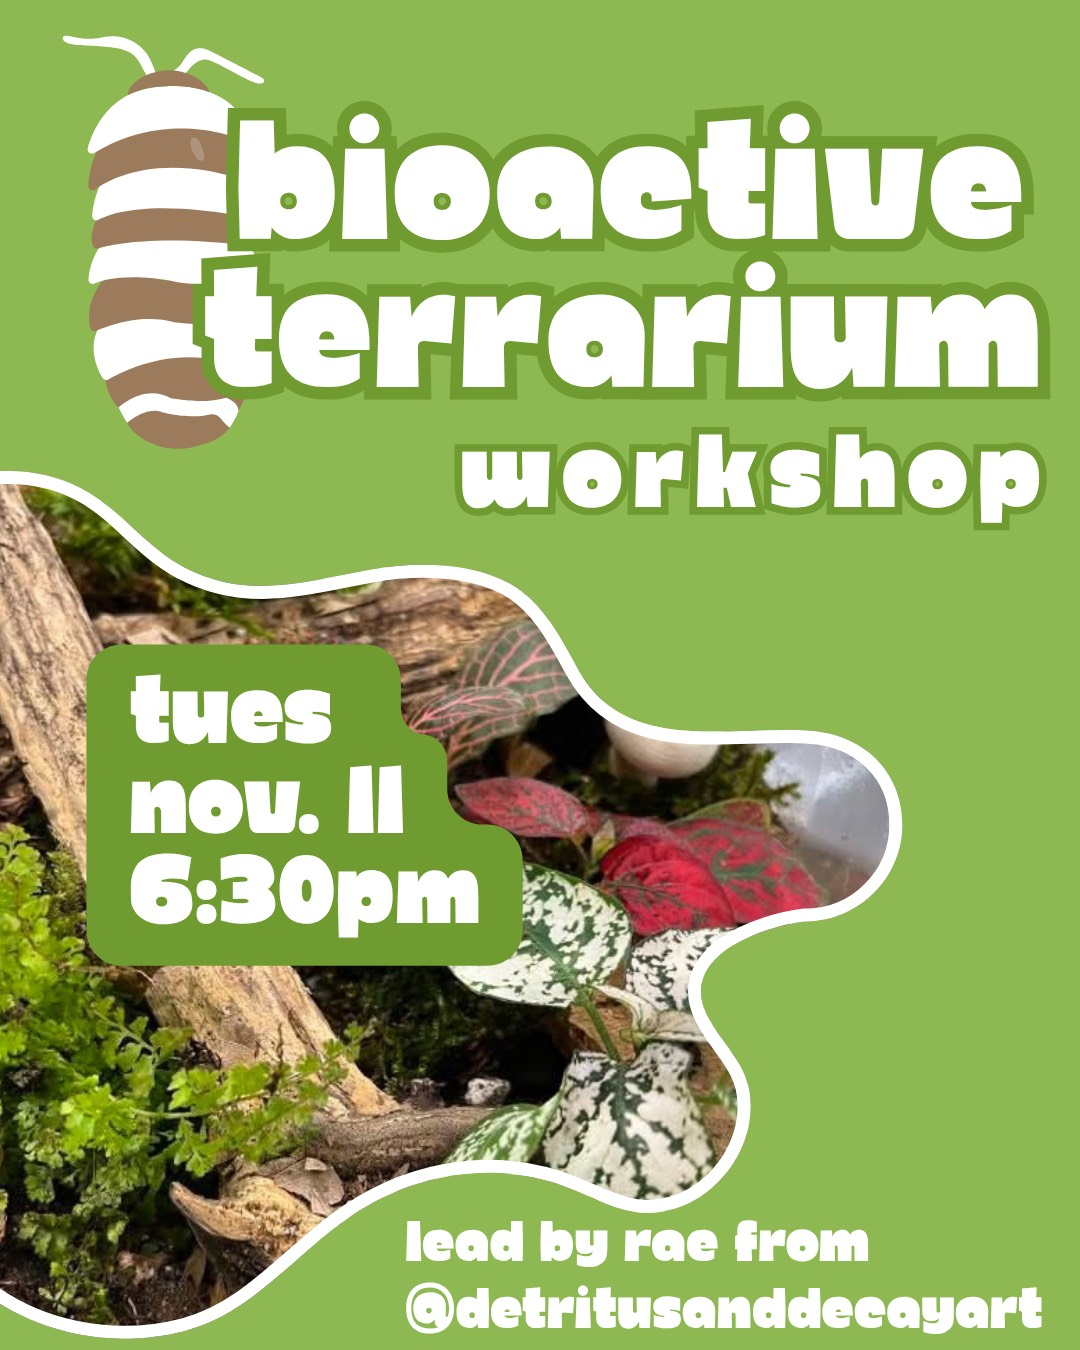
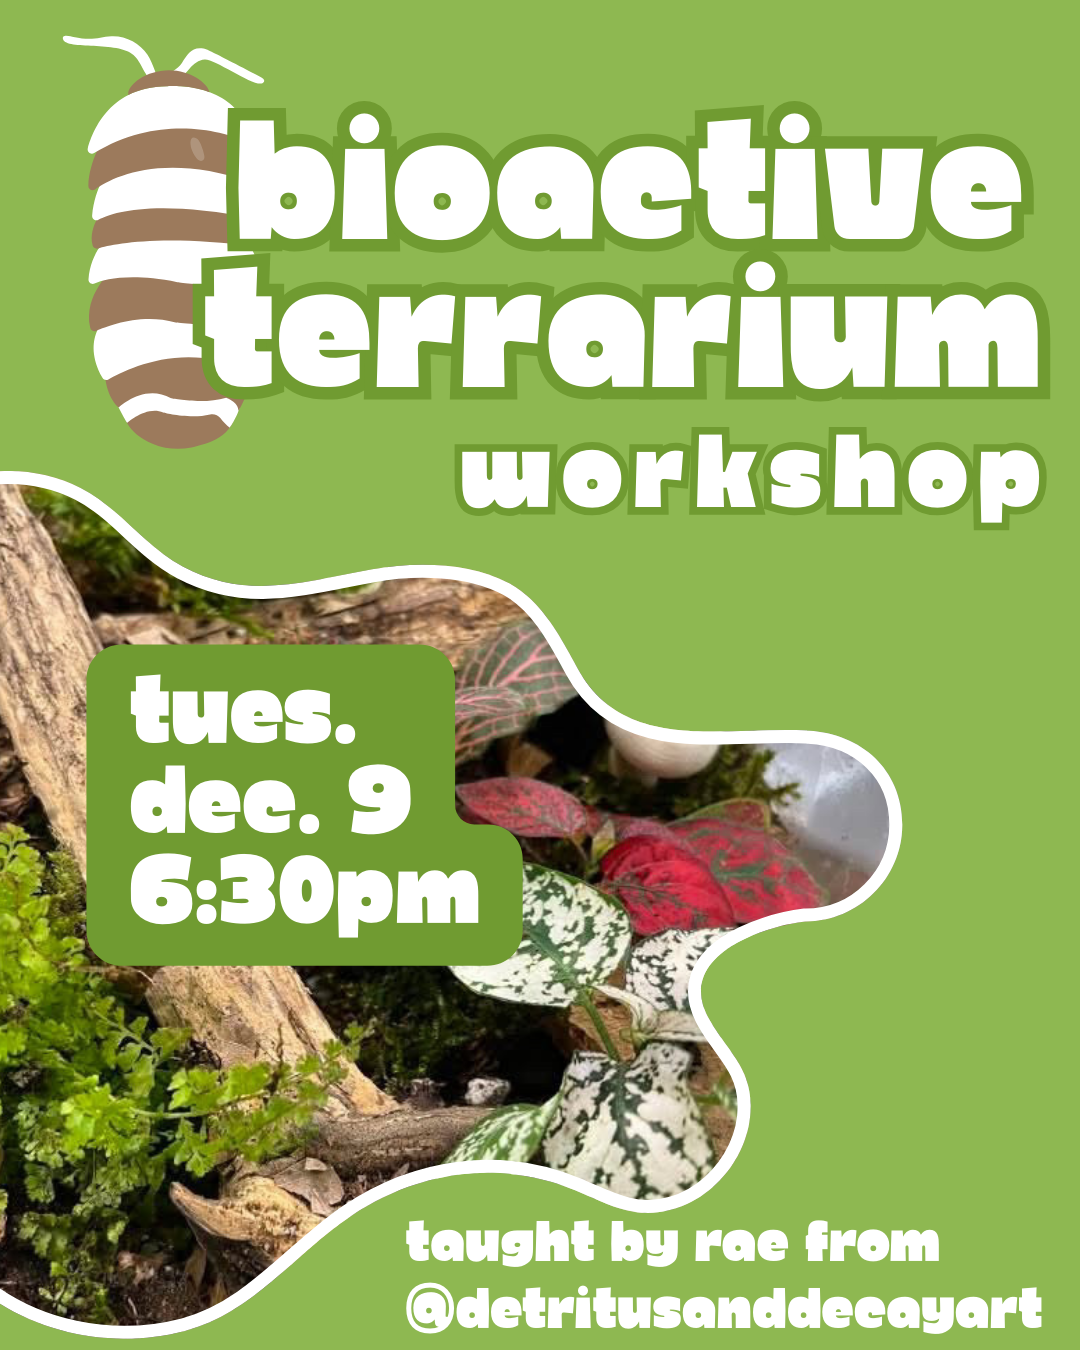
updates with new candle workshop and additional bioactive date

diff --git a/index.html b/index.html
@@ -110,6 +110,56 @@
             </div>
           </div> -->
 
+          <!-- second --> 
+          
+           <div class="event">
+            <div class="eventHeader">
+              <img src="./img/candle.png" alt="Event flyer" class="eventFlyer">
+                <div class="eventTitle">
+                 Make-Your-Own Candles
+                  <div class="eventDate">
+                    <span>
+                        Saturday 12/6 7:30PM
+                    </span>                    
+                  </div>      
+                  </div>
+                </div>
+              
+            <div class="eventDescription">
+              <p class="eventDescriptionText">
+                <strong>
+                  Amanda Garcia of ‘Girl Meets Wick’ will guide you through mixing your own fragrances! You will leave with three candles to take home!
+              </p>
+              <p class="eventDescriptionText">
+                What to expect:
+                <ul>
+                  <li>Learn about fragrance mixing</li>
+                  <li>Choose your jars & mix up your favorite fragrance concoctions</li>
+                  <li>Your candles will then be poured for you and will require 1 hour to cool before taking them home. (you can return that night after ~hour or pick up another day)</li>
+                </ul>
+              </p>
+              <br>
+
+              <p class="eventDescriptionText">
+                100% Essential Oils, 100% Soy Wax, 100% Cotton Wicks!
+              </p>
+
+              <p class="eventDescriptionText">
+              Sip on cocktails & mocktails and have a snack while you create!<br> enjoy 20% off of all Perch goods on the night of the workshop!
+              </p>
+
+              <p class="eventDescriptionText">
+                $50 all materials included. Must be 21+ to attend.
+              </p>
+
+              <a href="https://buy.stripe.com/5kQ5kCcfV5fNcqM1Ir9IQ0p">
+                <button class="signUpBtn">Sign up!</button>
+            </a>
+            
+              
+            </div>
+          </div>
+
           
 
           <div class="event">
@@ -120,7 +170,7 @@
                   <div class="eventDate">
                     <span>
                         
-                          Tuesday 11/11 @ 6:30PM
+                          Tuesday 12/9 @ 6:30PM
                         
                     </span><p></p>
                     
@@ -184,42 +234,7 @@ Build your very own miniature tropical ecosystem, complete with a critter clean-
           
 
 
-          <!-- second --> 
           
-           <div class="event">
-            <div class="eventHeader">
-              <img src="./img/broom2025.png" alt="Event flyer" class="eventFlyer">
-                <div class="eventTitle">
-                 Hand Broom Making Workshop w/ broom artist Catherine from Feral Broomcraft
-                  <div class="eventDate">
-                    <span>
-                        Tuesday 11/18 6:30PM
-                    </span>                    
-                  </div>      
-                  </div>
-                </div>
-              
-            <div class="eventDescription">
-              <p class="eventDescriptionText">
-                <strong>
-                  In his class you will make two brooms- a mini table whisk and a turkey wing broom
-All tools and materials will be provided.
-              </p>
-              <p class="eventDescriptionText">
-                Workshop has a run time of 2.5 hours
-This class is beginner friendly and requires no prior experience. It does require minimal hand and arm strength, and sitting in place for up to about 45 minutes. You will be able to finish both brooms in class and bring them home ready to use!
-              </p>
-              <p class="eventDescriptionText">
-                Enjoy 20% off everything in-store on the night of the workshop
-Space is limited to 10 slots
-              </p>
-              <a href="https://buy.stripe.com/cNi28qgwb23B62ofzh9IQ0u">
-                <button class="signUpBtn">Sign up!</button>
-            </a>
-            
-              
-            </div>
-          </div>
                      
 
           
